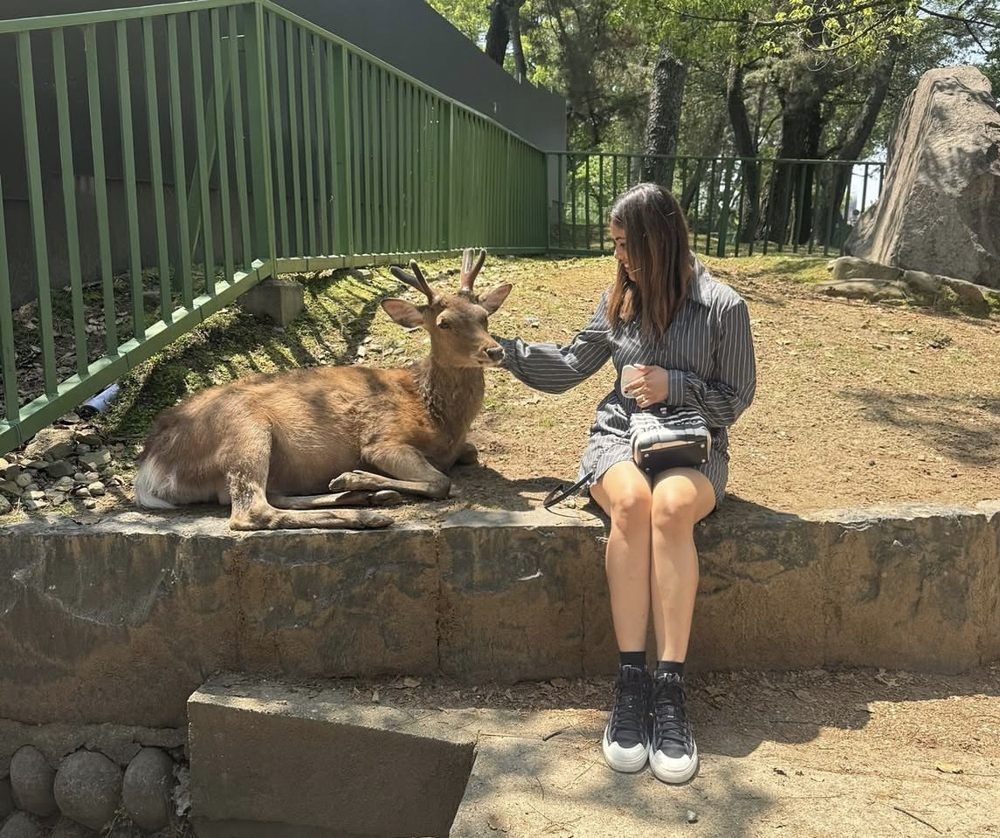
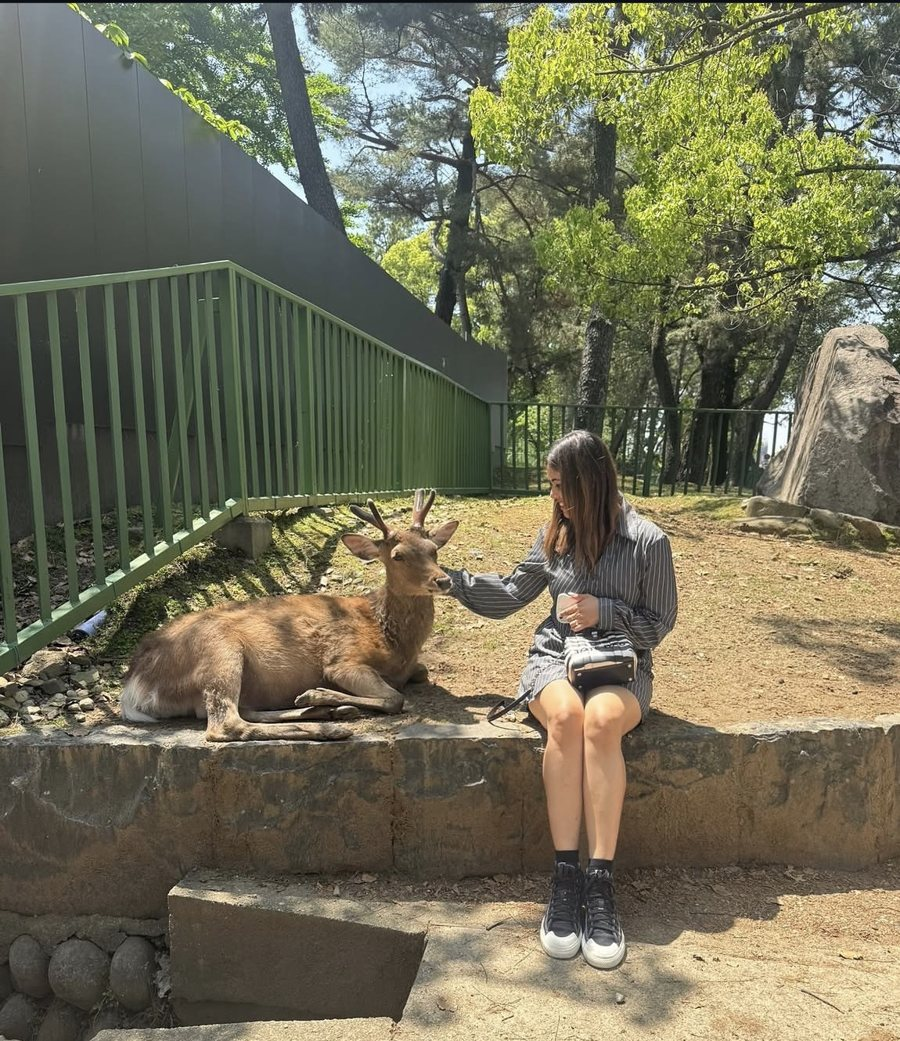
New photo on the final screen

diff --git a/index.html b/index.html
@@ -190,23 +190,52 @@
     border:1px solid var(--line);border-radius:16px;touch-action:none;cursor:grab;
   }
 
-  /* fairytales */
-  .tale{
-    margin-top:18px;font-family:var(--display);font-size:clamp(19px,4.8vw,23px);
-    line-height:1.45;color:var(--text);
+  /* the song */
+  .song{
+    margin-top:24px;padding:16px;border:1px solid var(--line);border-radius:16px;
+    background:linear-gradient(180deg,#2b1a33 0%,#221530 100%);
   }
-  .tale::first-letter{font-size:2.1em;line-height:.9;color:var(--gold);float:left;padding:7px 8px 0 0}
-  .pages{display:flex;gap:6px;margin-top:20px}
+  .video{
+    position:relative;aspect-ratio:16/9;width:100%;max-width:100%;
+    border-radius:12px;overflow:hidden;background:#000;
+  }
+  .video iframe{position:absolute;inset:0;width:100%;height:100%;border:0}
+
+  /* fairytales — photo and story share one screen, no scrolling */
+  main:has(.tale-screen){padding-block:22px}
+  .tale-screen{display:flex;flex-direction:column;gap:2px}
+  .tale-screen h2{font-size:clamp(26px,6.4vw,38px);margin-bottom:8px}
+  .tale-screen .polaroid{
+    margin:6px auto 0;width:fit-content;max-width:100%;
+    padding:8px 8px 10px;
+  }
+  .tale-screen .polaroid img{
+    max-height:44vh;width:auto;max-width:100%;object-fit:contain;margin:0 auto;
+  }
+  .tale-screen .polaroid figcaption{font-size:15px;margin-top:7px}
+  .tale-screen .row{margin-top:14px}
+  .tale{
+    margin-top:14px;font-family:var(--display);font-size:clamp(17px,4.3vw,22px);
+    line-height:1.4;color:var(--text);
+  }
+  @media (min-width:760px){
+    .tale-screen .polaroid img{max-height:52vh}
+  }
+  @media (max-height:700px){
+    .tale-screen .polaroid img{max-height:38vh}
+    .tale{font-size:16px;line-height:1.35}
+  }
+  .tale::first-letter{font-size:2em;line-height:.9;color:var(--gold);float:left;padding:6px 8px 0 0}
+  .pages{display:flex;gap:6px;margin-top:14px}
   .pages i{width:7px;height:7px;border-radius:50%;background:var(--line)}
   .pages i.on{background:var(--gold)}
-  .polaroid img{max-height:62vh;object-fit:cover;object-position:top center}
 
   /* polaroid */
   .polaroid{
     margin:22px 0 0;padding:10px 10px 14px;background:#fbf5ef;border-radius:4px;
     transform:rotate(-1.6deg);box-shadow:0 14px 34px rgba(0,0,0,.45);max-width:100%;
   }
-  .polaroid img{display:block;width:100%;height:auto;border-radius:2px}
+  .polaroid img{display:block;width:100%;height:auto;object-fit:contain;border-radius:2px}
   .polaroid figcaption{
     font-family:var(--display);font-style:italic;font-size:17px;color:#6d4a5e;
     text-align:center;margin-top:10px;line-height:1.3;
@@ -382,8 +411,11 @@
   ];
   const MOOD = ['warming up','a little bit melting','smiling, I saw it','no going back now','see you at 6:30'];
 
+  const CREATURES = ['butterfly','fairy','angel','unicorn','fairy'];
+
   function lines(i){
     const [text, aside] = LINES[i];
+    flyBy(CREATURES[i % CREATURES.length]);
     const pct = Math.round(((i+1)/LINES.length)*100);
     const last = i === LINES.length-1;
     app.innerHTML = `<section class="screen">
@@ -425,7 +457,8 @@
 
   function tales(i){
     const tl = TALES[i], last = i === TALES.length-1;
-    app.innerHTML = `<section class="screen">
+    flyBy(CREATURES[(i + 2) % CREATURES.length]);
+    app.innerHTML = `<section class="screen tale-screen">
       <p class="eyebrow">Five true fairytales · ${i+1} of ${TALES.length}</p>
       <h2>${tl.title}</h2>
       <figure class="polaroid">
@@ -711,8 +744,8 @@
       <p>You're ${mood.toLowerCase()}, I'm somewhere past that. Tomorrow: one surprise drink, one table I've been quietly smug about, and the whole city lit up underneath us.</p>
       <div class="clock" id="clock"></div>
       <figure class="polaroid">
-        <img src="chetna-deer.jpg" alt="Chetna sitting on a stone wall, gently patting a deer" width="1000" height="838">
-        <figcaption>Still the best photo ever taken of anyone</figcaption>
+        <img src="tale-bridge.jpg" alt="Chetna in a red floral dress on a wooden bridge by a lake">
+        <figcaption>This one's my favourite. That's the whole caption.</figcaption>
       </figure>
       <div class="ask-box">
         <label for="song"><b>One job for you:</b> what's playing in the car on the way?</label>
@@ -721,6 +754,16 @@
           <button class="btn primary" id="sendsong">Send</button>
         </div>
         <p class="fine" id="songdone" hidden>Got it. It's going on the playlist tonight.</p>
+      </div>
+      <div class="song">
+        <p class="eyebrow" style="margin-bottom:8px">And one last thing · press play</p>
+        <div class="video">
+          <iframe src="https://www.youtube-nocookie.com/embed/bP8ATWCvqzw?rel=0"
+            title="Arz Kiya Hai — Anuv Jain × Lost Stories, Coke Studio Bharat"
+            allow="accelerometer; encrypted-media; picture-in-picture; web-share"
+            referrerpolicy="strict-origin-when-cross-origin" allowfullscreen loading="lazy"></iframe>
+        </div>
+        <p class="fine" style="margin-top:10px"><b style="color:var(--text)">Arz Kiya Hai</b> — Anuv Jain × Lost Stories, Coke Studio Bharat. Consider this the arz. The rest of it I'll say on Saturday.</p>
       </div>
       <p class="fine">Bring nothing else. I've got the rest.</p>
       <div class="row">
@@ -769,6 +812,83 @@
   fit(); addEventListener('resize', fit);
 
   function setSky(mode){ skyMode = mode; buildSky(); }
+
+  // ---- a couple of magical things fly across on every chapter ----
+  let fliers = [], dust = [];
+  function flyBy(kind){
+    const dir = Math.random() < .5 ? 1 : -1;
+    const baseY = H*.18 + Math.random()*H*.35;
+    const speed = (1.5 + Math.random()*.7) * dir;
+    for (let i = 0; i < 2; i++){          // always a pair
+      fliers.push({
+        kind, dir,
+        x: dir > 0 ? -70 - i*54 : W + 70 + i*54,
+        y: baseY + i*26,
+        vx: speed,
+        amp: 16 + Math.random()*14,
+        ph: Math.random()*6 + i*.7,
+        s: (kind === 'unicorn' ? .8 : 1) * (.9 + Math.random()*.35),
+        t: 0
+      });
+    }
+  }
+
+  function wing(flap, side){        // one wing pair frame, side = 1 | -1
+    x.save(); x.scale(side, 1);
+    x.beginPath();
+    x.ellipse(9, -4, 10 * flap, 8, -.5, 0, 7);
+    x.fill();
+    x.beginPath();
+    x.ellipse(7, 5, 7.5 * flap, 6, .4, 0, 7);
+    x.fill();
+    x.restore();
+  }
+
+  function drawFlier(f){
+    const flap = .35 + Math.abs(Math.sin(f.t * 9)) * .75;
+    x.save();
+    x.translate(f.x, f.y);
+    x.scale(f.s * (f.dir > 0 ? 1 : -1), f.s);
+
+    if (f.kind === 'butterfly'){
+      x.fillStyle = 'rgba(255,143,163,.85)'; wing(flap, 1);
+      x.fillStyle = 'rgba(243,198,119,.8)'; wing(flap, -1);
+      x.strokeStyle = '#f6ece4'; x.lineWidth = 1.6; x.lineCap = 'round';
+      x.beginPath(); x.moveTo(0, -7); x.lineTo(0, 8); x.stroke();
+      x.beginPath(); x.moveTo(0, -7); x.quadraticCurveTo(4, -13, 7, -12); x.stroke();
+      x.beginPath(); x.moveTo(0, -7); x.quadraticCurveTo(-4, -13, -7, -12); x.stroke();
+    } else if (f.kind === 'fairy'){
+      x.fillStyle = 'rgba(214,236,255,.55)'; wing(flap, 1); wing(flap, -1);
+      x.fillStyle = '#f3c677';
+      x.beginPath(); x.arc(0, 0, 4.2, 0, 7); x.fill();
+      x.globalAlpha = .35; x.beginPath(); x.arc(0, 0, 9, 0, 7); x.fill(); x.globalAlpha = 1;
+      x.strokeStyle = 'rgba(246,236,228,.8)'; x.lineWidth = 1.4;
+      x.beginPath(); x.moveTo(0, 4); x.lineTo(-1, 11); x.stroke();
+    } else if (f.kind === 'angel'){
+      x.fillStyle = 'rgba(246,236,228,.9)'; wing(flap, 1); wing(flap, -1);
+      x.fillStyle = '#fbf3ec';
+      x.beginPath(); x.ellipse(0, 4, 5, 9, 0, 0, 7); x.fill();      // gown
+      x.beginPath(); x.arc(0, -8, 4, 0, 7); x.fill();                // head
+      x.strokeStyle = '#f3c677'; x.lineWidth = 1.8;                  // halo
+      x.beginPath(); x.ellipse(0, -14, 5.5, 2, 0, 0, 7); x.stroke();
+    } else {                                                          // unicorn
+      x.fillStyle = 'rgba(214,236,255,.5)'; wing(flap * 1.2, 1);
+      x.fillStyle = '#fbf3ec';
+      x.beginPath(); x.ellipse(0, 0, 14, 8, 0, 0, 7); x.fill();       // body
+      x.strokeStyle = '#fbf3ec'; x.lineWidth = 3.4; x.lineCap = 'round';
+      [-7, -1, 5, 9].forEach((lx, k) => { x.beginPath(); x.moveTo(lx, 6); x.lineTo(lx + (k%2?2:-2), 13); x.stroke(); });
+      x.beginPath(); x.moveTo(7, -5); x.lineTo(13, -19); x.lineTo(19, -17); x.lineTo(15, -3); x.closePath(); x.fill();
+      x.beginPath(); x.ellipse(17, -20, 7, 5, -.3, 0, 7); x.fill();   // head
+      x.fillStyle = '#f3c677';                                        // horn
+      x.beginPath(); x.moveTo(20, -25); x.lineTo(24, -35); x.lineTo(16, -26); x.closePath(); x.fill();
+      x.fillStyle = '#ff8fa3';                                        // mane + tail
+      x.beginPath(); x.moveTo(13, -24); x.quadraticCurveTo(4, -20, 6, -6);
+      x.quadraticCurveTo(12, -12, 16, -22); x.closePath(); x.fill();
+      x.strokeStyle = '#ff8fa3'; x.lineWidth = 3;
+      x.beginPath(); x.moveTo(-13, -4); x.quadraticCurveTo(-22, 2, -18, 12); x.stroke();
+    }
+    x.restore();
+  }
 
   function heart(px,py,s,col,a){
     x.save(); x.globalAlpha=a; x.translate(px,py); x.scale(s,s); x.fillStyle=col;
@@ -846,6 +966,26 @@
 
     wet += ((skyMode === 'clear' ? 0 : 1) - wet) * .02;
     x.globalAlpha = 1;
+
+    // the flying couples, with a little trail of dust behind them
+    for (const f of fliers){
+      f.t += .016; f.x += f.vx;
+      f.y += Math.cos(f.t * 2.2 + f.ph) * .9;
+      const fy = f.y + Math.sin(f.t * 2.2 + f.ph) * f.amp * .12;
+      if (!reduce && Math.random() < .5)
+        dust.push({ x: f.x - f.vx*2, y: fy + 4, life: 1, c: f.kind === 'butterfly' ? '#ff8fa3' : '#f3c677' });
+      drawFlier({ ...f, y: fy });
+    }
+    fliers = fliers.filter(f => f.x > -140 && f.x < W + 140);
+
+    for (const d of dust){
+      d.life -= .012; d.y += .25;
+      x.globalAlpha = Math.max(d.life, 0) * .8; x.fillStyle = d.c;
+      x.beginPath(); x.arc(d.x, d.y, 1.6 * d.life + .4, 0, 7); x.fill();
+    }
+    dust = dust.filter(d => d.life > 0);
+    x.globalAlpha = 1;
+
     hearts = hearts.filter(h => h.life > 0);
     for (const h of hearts){
       h.x += h.vx; h.y += h.vy; h.vy += .22; h.vx *= .99; h.life -= .008;
